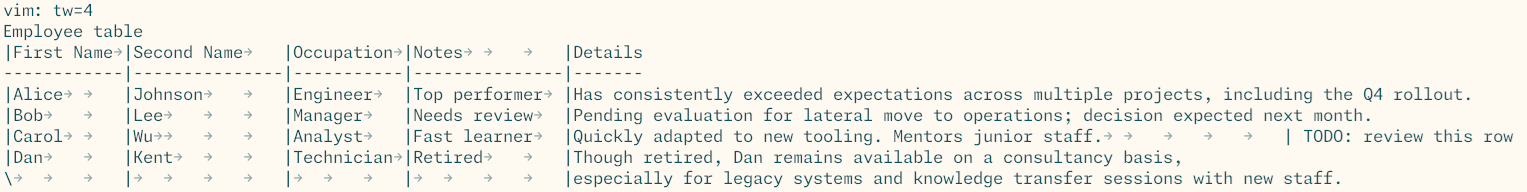
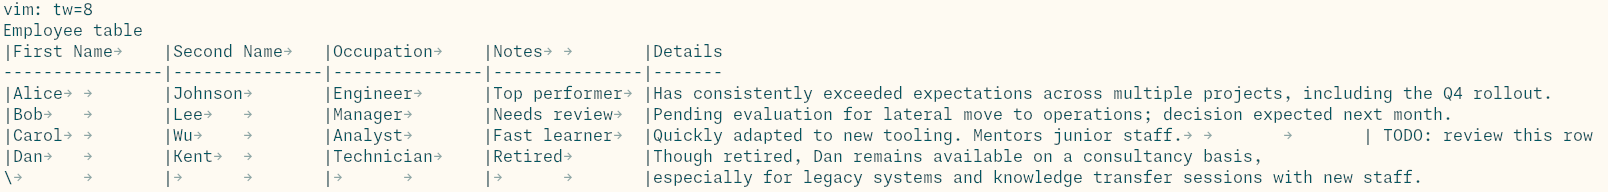
improve

diff --git a/blog/tpsv.md b/blog/tpsv.md
@@ -5,10 +5,10 @@ toc-override: true
 TPSV
 ====
 
-Despite CSV being ubiquitous, TSV has direct advantages over CSV in many situations.
-Tab characters don't normally occur in the data being encoded, which relieves the need for quoting.
+Despite CSV (Comma-Separated-Values) being ubiquitous, its cousin [TSV (Tab-Separated-Values)](https://en.wikipedia.org/wiki/Tab-separated_values) has direct advantages over CSV in many situations.
+Tab characters don't normally occur in the data being encoded, which avoids the need for quoting.
 Moreover, if your columns all have a similar width, you can configure the tab-width in any text editor such that all columns align nicely.
-However, in many cases columns do not have a similar width.
+Unfortunately, in many cases columns do not have a similar width.
 
 TPSV stands for Tab-Pipe-Separated-Values and aims to be an easier-to-work-with alternative to CSV and TSV.
 Like both of these formats, TPSV is able to describe tabular data where each cell contains a string value.
@@ -40,13 +40,13 @@ The gray arrows are tab characters.
 
 This example highlights a few aspects.
 
-- The first two lines do not start with a cell, and thus are treated as comments. 
-- The first line is a modeline, which can be interpreted by text editors that support them. 
-  In this case it sets the tab width to 4.
-- Like in this example, the first row will usually be a header.
-- The dashed line under the header does not start with `|` or `\`, so it is ignored.
-- This particular choice of header separator makes the example compatible with [Markdown pipe tables](https://www.markdownguide.org/extended-syntax/#tables), which are recognized as tables in many contexts, including GitHub-flavored Markdown.
-  This can be convenient if you want to paste it somewhere.
+- The first two lines do not start with a cell, and thus are treated as comments.
+  (The first line is a modeline, which can be interpreted by text editors that support them.
+  In this case it sets the tab width to 8.)
+- Just like in this example, the first row will usually be used as a header for the columns.
+- The next line under the header is ignored, becaused it also does not start with a cell.
+  This particular choice of header separator makes the example compatible with [Markdown pipe tables](https://www.markdownguide.org/extended-syntax/#tables), which are recognized as tables in many contexts, including GitHub-flavored Markdown.
+  This can be convenient if you want to paste the tabular data somewhere.
 - In general, the last column is ideal for long cell contents.
 - The cell with the "TODO" is beyond the last column, so it acts as a comment.
 - The last line is an example of a row continuation, which can be nice if you don't want the text to exceed a certain width.
@@ -58,7 +58,7 @@ Recommendations:
 - Use a monospaced text editor.
 - Configure your editor to render tab characters (so you can distinguish them from spaces).
 - Use editorconfig to set tabwidth for specific files, or use modelines like `vim: tw=8`, which are supported by several editors.
-- A smaller tab-width gives you finer control over column widths, but requires more manual width management.
+- A smaller tab-width gives you finer control over column widths, but requires more width management.
   I would generally recommend a tab-width of 8 for TPSV files, but other choices can make a lot of sense too.
 
 Example .editorconfig for generic tpsv files:
